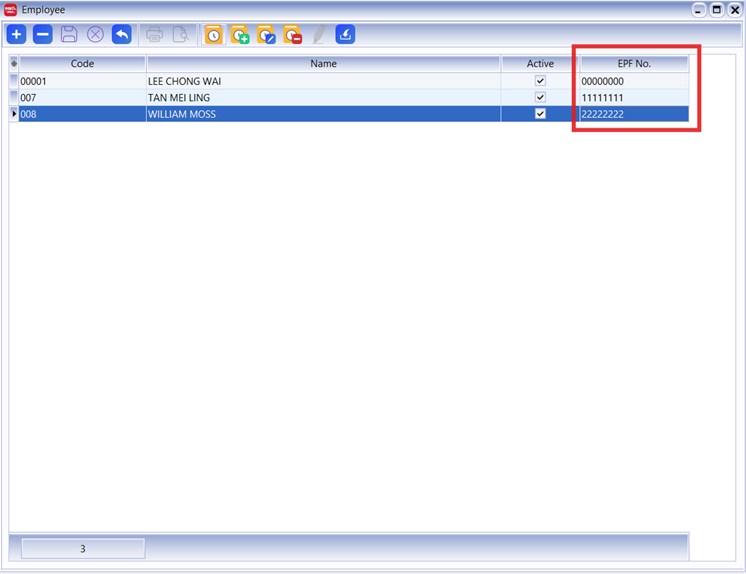
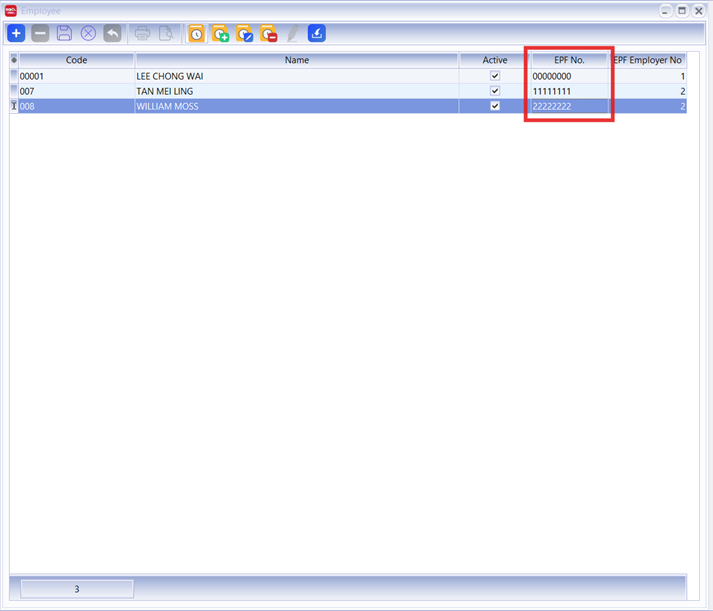
feat: update epf foreign worker guide

Changed region(s): [[0.0, 0.0, 1.0, 1.0]]

diff --git a/docs/miscellaneous/epf/non-malaysian.md b/docs/miscellaneous/epf/non-malaysian.md
@@ -248,11 +248,29 @@ SQL includes a Batch Edit function that allows you to update employees’ EPF in
 5. Now, you may update the *EPF No.* for each employee
     ![update-employee-epf-no](../../../static/img/miscellaneous/epf/foreign-worker/update-employee-epf-no.png)
 
-6. Click **Save** to apply changes.
+6. By default, the system assigns employees to *EPF Employer Account 1*.
+    If a non-Malaysian employee needs to be registered under *EPF Employer Account 2*, update the **EPF Employer No.** field accordingly.
+
+    The **EPF Employer No.** field determines which EPF account the non-Malaysian employee is assigned to:
+       - **1** = EPF Employer Account 1 (default)
+       - **2** = EPF Employer Account 2 (if applicable)
+
+    :::note
+    This field can only be modified for employees whose **Nationality is NOT Malaysia**.
+    :::
+
+    ![update-epf-employer-no](../../../static/img/miscellaneous/epf/foreign-worker/update-epf-employer-no.png)
+
+7. Click **Save** to apply changes.
+
     ![save-employee-epf-no](../../../static/img/miscellaneous/epf/foreign-worker/save-employee-epf-no.png)
 
-7. Verify that you have successfully updated the *EPF No.* for all employees
+8. Verify that you have successfully updated the *EPF Employer No* and *EPF No.* for all employees
     ![verify-employee-epf-no](../../../static/img/miscellaneous/epf/foreign-worker/verify-employee-epf-no.png)
+
+    :::note
+    The **EPF Employer No.** field is only visible when the employee’s **Nationality is NOT Malaysia**.
+    :::
 
 ### Step 3 : Generate EPF Submission File
 
